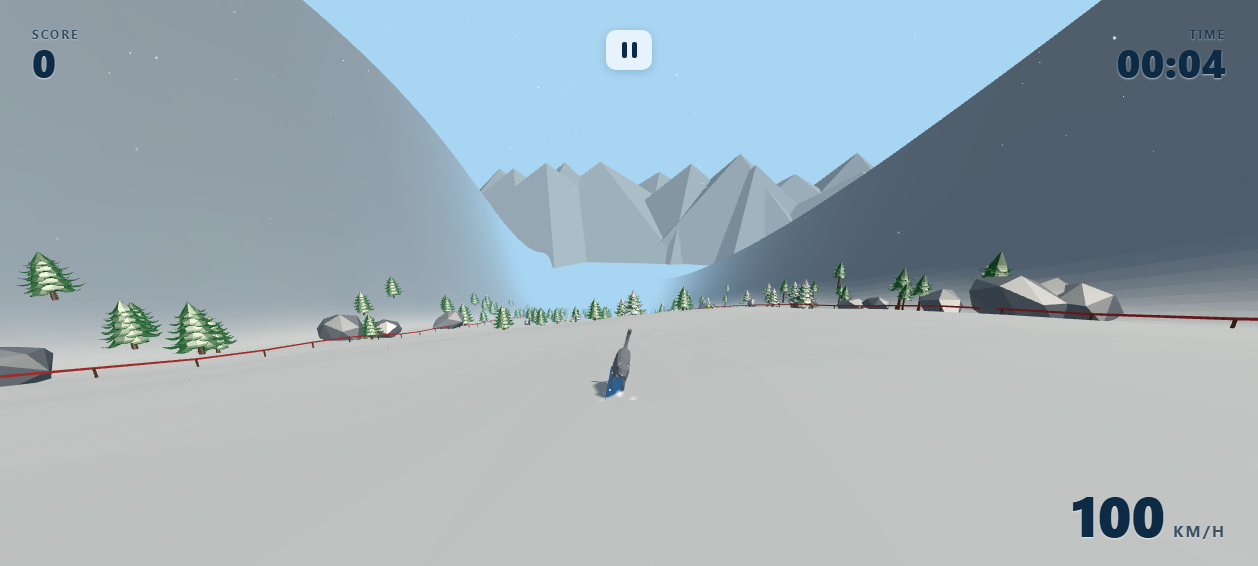
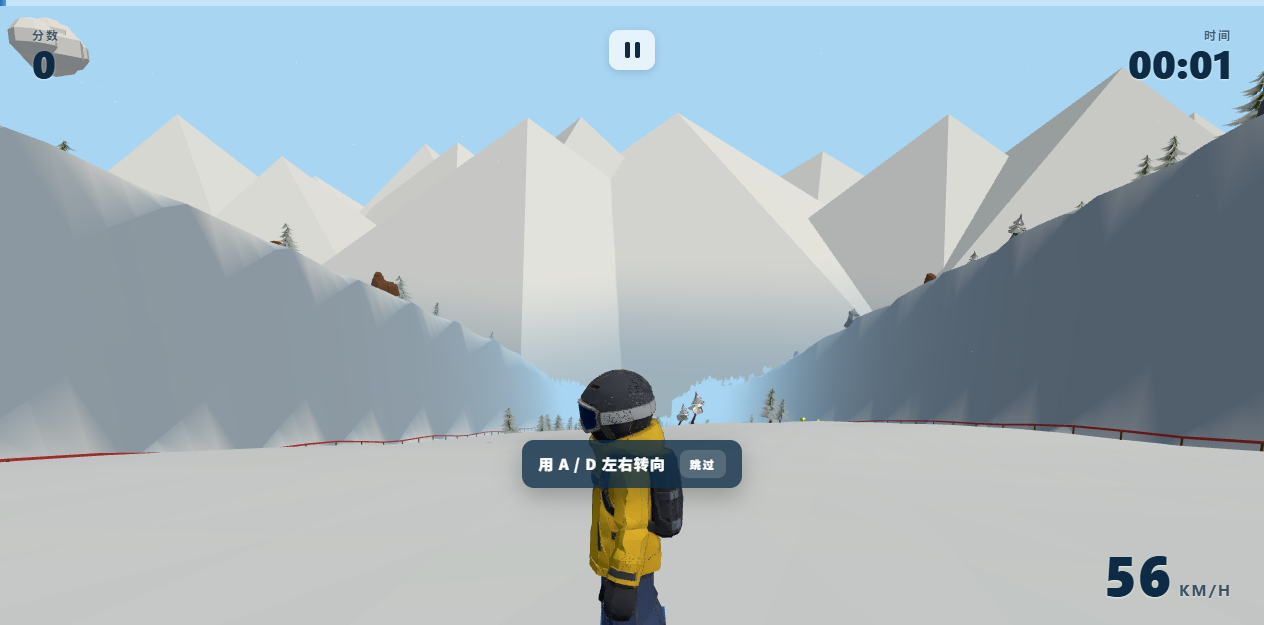
feat: enlarge rider at speed, add asset pipeline docs and fresh screenshots
Camera/rider: riderHeight 1.3 -> 1.85m, third-person distance 2.5-3.0 and FOV 46-52 so the character stays large even at top speed.

Docs: add docs/ASSET_PIPELINE.md (Blender decimate + WebP texture compression, auto-rigging, integration, screenshots); update README controls/features and screenshots (start menu / third-person / first-person); note the pipeline in ARCHITECTURE; log Phase 8 in TASKS.

diff --git a/src/core/Config.ts b/src/core/Config.ts
@@ -275,7 +275,7 @@ export const CONFIG = {
     maxLean: 0.35,
     leanRate: 8,
     /** Animated rider model: target height and yaw correction (radians). */
-    riderHeight: 1.6,
+    riderHeight: 1.85,
     riderYaw: -Math.PI / 2,
     colliderFriction: 0.3,
     density: 1,
@@ -285,13 +285,14 @@ export const CONFIG = {
   },
 
   camera: {
-    // Third-person chase: closer + tighter FOV so the rider reads larger.
-    baseFov: 50,
-    maxFov: 62,
-    minDistance: 2.9,
-    maxDistance: 4.3,
-    baseHeight: 1.4,
-    maxHeight: 2.1,
+    // Third-person chase: close and nearly constant with speed, so the rider
+    // stays large even at top speed (only a small pull-back/FOV change).
+    baseFov: 46,
+    maxFov: 52,
+    minDistance: 2.5,
+    maxDistance: 3.0,
+    baseHeight: 1.25,
+    maxHeight: 1.7,
     positionLerp: 4,
     lookLerp: 8,
     fovLerp: 4,

diff --git a/docs/ASSET_PIPELINE.md b/docs/ASSET_PIPELINE.md
@@ -1,0 +1,126 @@
+# 资源处理与开发说明
+
+本文档面向后续开发，说明如何把外部/自制的模型接入 SnowRush，尤其是
+**如何把一个很大的 GLB 模型压缩到可接受的大小**，以及如何重新生成 README 截图。
+
+> 角色模型、树木、岩石都放在 `public/models/`，运行时由
+> `src/world/ModelLibrary.ts` 加载（按扩展名自动选择 `GLTFLoader` / `FBXLoader`）。
+
+---
+
+## 1. 需求
+
+- **Blender 5.x**（命令行 headless 即可，无需打开界面）
+- Node.js + 本仓库依赖（`npm install`）
+
+仓库自带两个脚本：
+
+| 脚本 | 作用 |
+|---|---|
+| `tools/optimize_model.py` | 减面 + 贴图缩放 + 导出 WebP（**压缩体积**） |
+| `tools/rig_model.py` | 自动绑定 5 骨骼脊骨 + 生成循环 `Idle` 动画 |
+
+---
+
+## 2. 压缩一个大模型（减面 + 贴图）
+
+以把 `docs/runer.glb` 从 **83MB** 压到 **~2.9MB** 为例：
+
+```bash
+blender --background --python tools/optimize_model.py -- \
+    <输入.glb> <输出.glb> <ratio> <maxTextureSize>
+```
+
+参数：
+
+- `ratio`：Decimate 折叠比例。`0.03` 表示保留约 3% 三角面。
+- `maxTextureSize`：每张贴图的最大边长（建议 `1024`）。
+
+实例：
+
+```bash
+# 高模角色：1.5M 面 -> 约 45k 面，贴图 4096 -> 1024
+blender --background --python tools/optimize_model.py -- \
+    docs/runer.glb public/models/runer.glb 0.03 1024
+
+# 中等模型：50k -> 30k 面
+blender --background --python tools/optimize_model.py -- \
+    docs/panda.glb public/models/panda.glb 0.6 1024
+```
+
+脚本流程：导入 GLB → 对每个网格加 `DECIMATE(COLLAPSE)` 并应用 →
+把每张图片缩放到 `maxTextureSize` → 以 **GLB + WebP** 导出。
+
+**体积主要来自贴图**：`runer.glb` 原本 3 张 4K PNG 约 35MB，减面只影响几何，
+真正的体积下降来自「贴图缩到 1024 + WebP 编码」。
+
+经验目标值：
+
+- 单个角色：**< 3MB**，三角面 **< 60k**
+- 贴图：**≤ 1024**，WebP
+- 树木/岩石（实例化散布）：单棵 **< 5k 面**
+
+> 也可用 `npx @gltf-transform/cli optimize in.glb out.glb` 做类似优化，但本项目
+> 统一使用 Blender 脚本，便于同时做骨骼绑定。
+
+---
+
+## 3. 给静态模型加骨骼动画
+
+AI 生成/扫描的模型通常没有骨骼。`tools/rig_model.py` 会：
+
+1. 以模型最高轴拟合一条 **Root / Hips / Spine / Chest / Head** 脊骨；
+2. 用**按距离计算的蒙皮权重**（Blender 自动权重对单层网格经常失败）；
+3. 生成一个可循环的 `Idle` 摆动动作；
+4. 导出带 `skin + animation` 的 GLB。
+
+```bash
+blender --background --python tools/rig_model.py -- \
+    public/models/runer.glb public/models/runer.glb
+```
+
+脚本会打印 `MAXDISP`（动画造成的最大顶点位移），`> 0` 表示确实动起来了。
+
+游戏侧：`PlayerVisual` 会播放名为 `Idle` 的剪辑作为待机/滑行动作；
+如需更多动作（Run/Jump 等），在脚本中追加 action 并按后缀命名即可。
+
+---
+
+## 4. 接入游戏
+
+1. 把优化后的 `.glb` 放到 `public/models/`。
+2. 在 `src/world/ModelLibrary.ts` 的 `CHARACTERS` 里登记：
+
+   ```ts
+   const CHARACTERS = [
+     { id: 'runer', name: 'RUNER', url: 'models/runer.glb' },
+     { id: 'panda', name: 'PANDA', url: 'models/panda.glb' },
+   ] as const;
+   ```
+
+3. 需要的可调参数在 `src/core/Config.ts`：
+   - `player.riderHeight`：角色在游戏中的目标高度（米），自动缩放；
+   - `player.riderYaw`：模型朝向修正（弧度）。
+
+---
+
+## 5. 重新生成 README 截图
+
+README 使用 `docs/screenshots/` 下的三张图。截图由无头 Chrome 脚本
+（开发用，未入库）生成，也可手动截取 **1280×720**：
+
+- `start-menu.png`：开始菜单（含角色预览）
+- `gameplay.png`：第三人称滑行（建议保持一定速度）
+- `first-person.png`：按 `V` 切到第一人称
+
+---
+
+## 6. 文档索引
+
+- `README.md`：面向玩家的项目介绍
+- `PRODUCT_SPEC.md`：产品需求与玩法规范
+- `ARCHITECTURE.md`：技术架构与系统边界
+- `TASKS.md`：分阶段开发任务清单
+- `AGENTS.md`：供 AI 智能体遵循的开发规则
+- `docs/ASSET_PIPELINE.md`：本文件（资源处理）
+- `docs/可能需要的美术资源.md`：美术资源需求清单

diff --git a/README.md b/README.md
@@ -18,24 +18,24 @@
 
 ### 截图
 
-| 开始菜单 | 滑行 | 空中特技 |
+| 开始菜单 | 滑行（第三人称） | 第一人称 |
 |---|---|---|
-| ![Start menu](docs/screenshots/start-menu.png) | ![Gameplay](docs/screenshots/gameplay.png) | ![Trick](docs/screenshots/trick.png) |
+| ![Start menu](docs/screenshots/start-menu.png) | ![Gameplay](docs/screenshots/gameplay.png) | ![First person](docs/screenshots/first-person.png) |
 
 ---
 
 ## 玩法特色
 
-- **街机滑雪手感**：弧线 Carving 转向、下坡加速、刹车，速度越快镜头越远、视角越广。
+- **街机滑雪手感**：弧线 Carving 转向、下坡加速、刹车；镜头贴近角色，高速时也能看清动作。
 - **跳跃与空中特技**：Frontflip、Backflip、Double、360、720、1080，以及各种组合连招。
 - **落地判定与连击**：根据落地角度判定安全 / 勉强 / 摔车，连续成功特技 Combo 倍率越高。
-- **完整赛道流程**：7 段赛道（热身 / 树林 / 旗门 / 跳台 / 高速 / 大跳台 / 终点）、检查点、计时与成绩单。
+- **完整赛道流程**：7 段赛道（热身 / 树林 / 旗门 / 跳台 / 高速 / 大跳台 / 终点）、存档点、计时与成绩单。
 - **可玩角色**：多名角色可选，开始菜单即可预览、旋转查看。
 - **四季雪景**：雪顶远山、两侧悬崖、飘雪、雪痕、落地雪爆与天空云朵。
 - **程序化音频**：风声、滑行声、跳跃、落地、摔车等随速度变化，菜单/游戏两套 BGM 与 UI 音效全部由 Web Audio 合成，无需下载音频资源；支持主音量 / 音乐 / 音效分轨与静音（M 键）。
 - **中文 / English**：界面默认中文，可一键切换英文。
 - **标准游戏外壳**：带进度条的加载界面、主菜单（开始 / 角色 / 玩法说明 / 记录 / 设置 / 制作人员）、键盘导航、设置（主音量 / 音乐 / 音效 / 静音 / 阴影）、结算评级与 NEW BEST、赛道进度条。
-- **记录与成就**：生涯最高分 / 最快用时 / 最高速度 / 最高连击等统计数据，以及 8 个可解锁成就，结算时提示破纪录项与解锁成就。
+- **记录与成就**：生涯最高分 / 最快用时 / 最高速度 / 最高连击等统计数据，以及 11 个可解锁成就，结算时提示破纪录项与解锁成就。
 - **首次教学**：第一次滑行会有分步提示（加速 / 转向 / 跳跃 / 旗门），可随时跳过；设置中可开关。
 - **适配与无障碍**：窄屏自适应布局、触屏设备提示、键盘焦点导航，并尊重系统的「减少动态效果」设置。
 - **性能友好**：画质（自动 / 高 / 低）可调，自动档会根据帧率动态调整；可选 FPS 显示；切到后台时自动暂停。
@@ -57,7 +57,10 @@
 | A / ← | 左转 |
 | D / → | 右转 |
 | Space | 跳跃 |
-| R | 回到最近检查点 |
+| R | 回到最近存档点 |
+| V | 切换第一 / 第三人称 |
+| K | 拍照模式 |
+| M | 静音 |
 | P / ESC | 暂停 |
 
 ### 空中
@@ -92,6 +95,15 @@ npm run dev       # 打开 http://localhost:5173/
 npm run build
 npm run preview   # 打开 http://localhost:4173/
 ```
+
+---
+
+## 开发文档
+
+- [`docs/ASSET_PIPELINE.md`](docs/ASSET_PIPELINE.md)：**如何压缩大模型**（Blender 减面 + 贴图压缩）、自动绑定骨骼动画、接入游戏与重新生成截图
+- [`ARCHITECTURE.md`](ARCHITECTURE.md)：技术架构与模块边界
+- [`TASKS.md`](TASKS.md)：分阶段任务与进度
+- [`PRODUCT_SPEC.md`](PRODUCT_SPEC.md)：产品与玩法规范
 
 ---
 

diff --git a/ARCHITECTURE.md b/ARCHITECTURE.md
@@ -837,6 +837,9 @@ tools/physics-check.ts          无头回归测试（npm run test:physics）
 - 视角（Phase 7）：`Settings.view`（third / first）。第一人称由
   `FollowCamera.updateFirstPerson` 实现（头部机位、水平地平线、速度 FOV、地形净空），
   `PlayerVisual.setVisible(false)` 隐藏角色；Crash / 菜单 / 拍照自动回退第三人称
+- 资源管线（Phase 8）：`tools/optimize_model.py`（Blender 减面 + 贴图 WebP 压缩）、
+  `tools/rig_model.py`（自动脊骨 + Idle 动画）；详见 `docs/ASSET_PIPELINE.md`。
+  角色高度/朝向集中在 `Config.player.riderHeight` / `riderYaw`
 - 远山 `MountainBackdrop.update()` 每帧跟随玩家水平坐标，使群山始终保持在远处
 - 模型在 `main.ts` 中先加载完成再构建 `Game`，保证 `CourseGenerator` 可同步实例化
 - 加载失败时 `ModelLibrary` 会退回程序化几何体，游戏仍可运行

diff --git a/TASKS.md b/TASKS.md
@@ -524,6 +524,14 @@
 - [x] 设置页新增「视角（第三人称 / 第一人称）」
 - [x] Crash / 菜单 / 拍照模式自动回退第三人称，避免第一人称下看不清摔倒
 
+### 视角与文档（Phase 8）
+
+- [x] 角色进一步放大：模型高度 `1.3 → 1.85m`；第三人称距离 `2.5–3.0`、FOV `46–52`，高速时也保持大尺寸
+- [x] 修复落地后雪板保持上翘（接地后复位空中旋转，且在特技判定之后）
+- [x] 检查点术语改为「存档点」；HUD 提示上移、缩小并自动淡出
+- [x] 新增 `docs/ASSET_PIPELINE.md`：大模型压缩（减面 + 贴图 WebP）、自动骨骼、接入与截图流程
+- [x] README 更新为最新截图（开始菜单 / 第三人称 / 第一人称）与操作说明
+
 ---
 
 ## Performance
